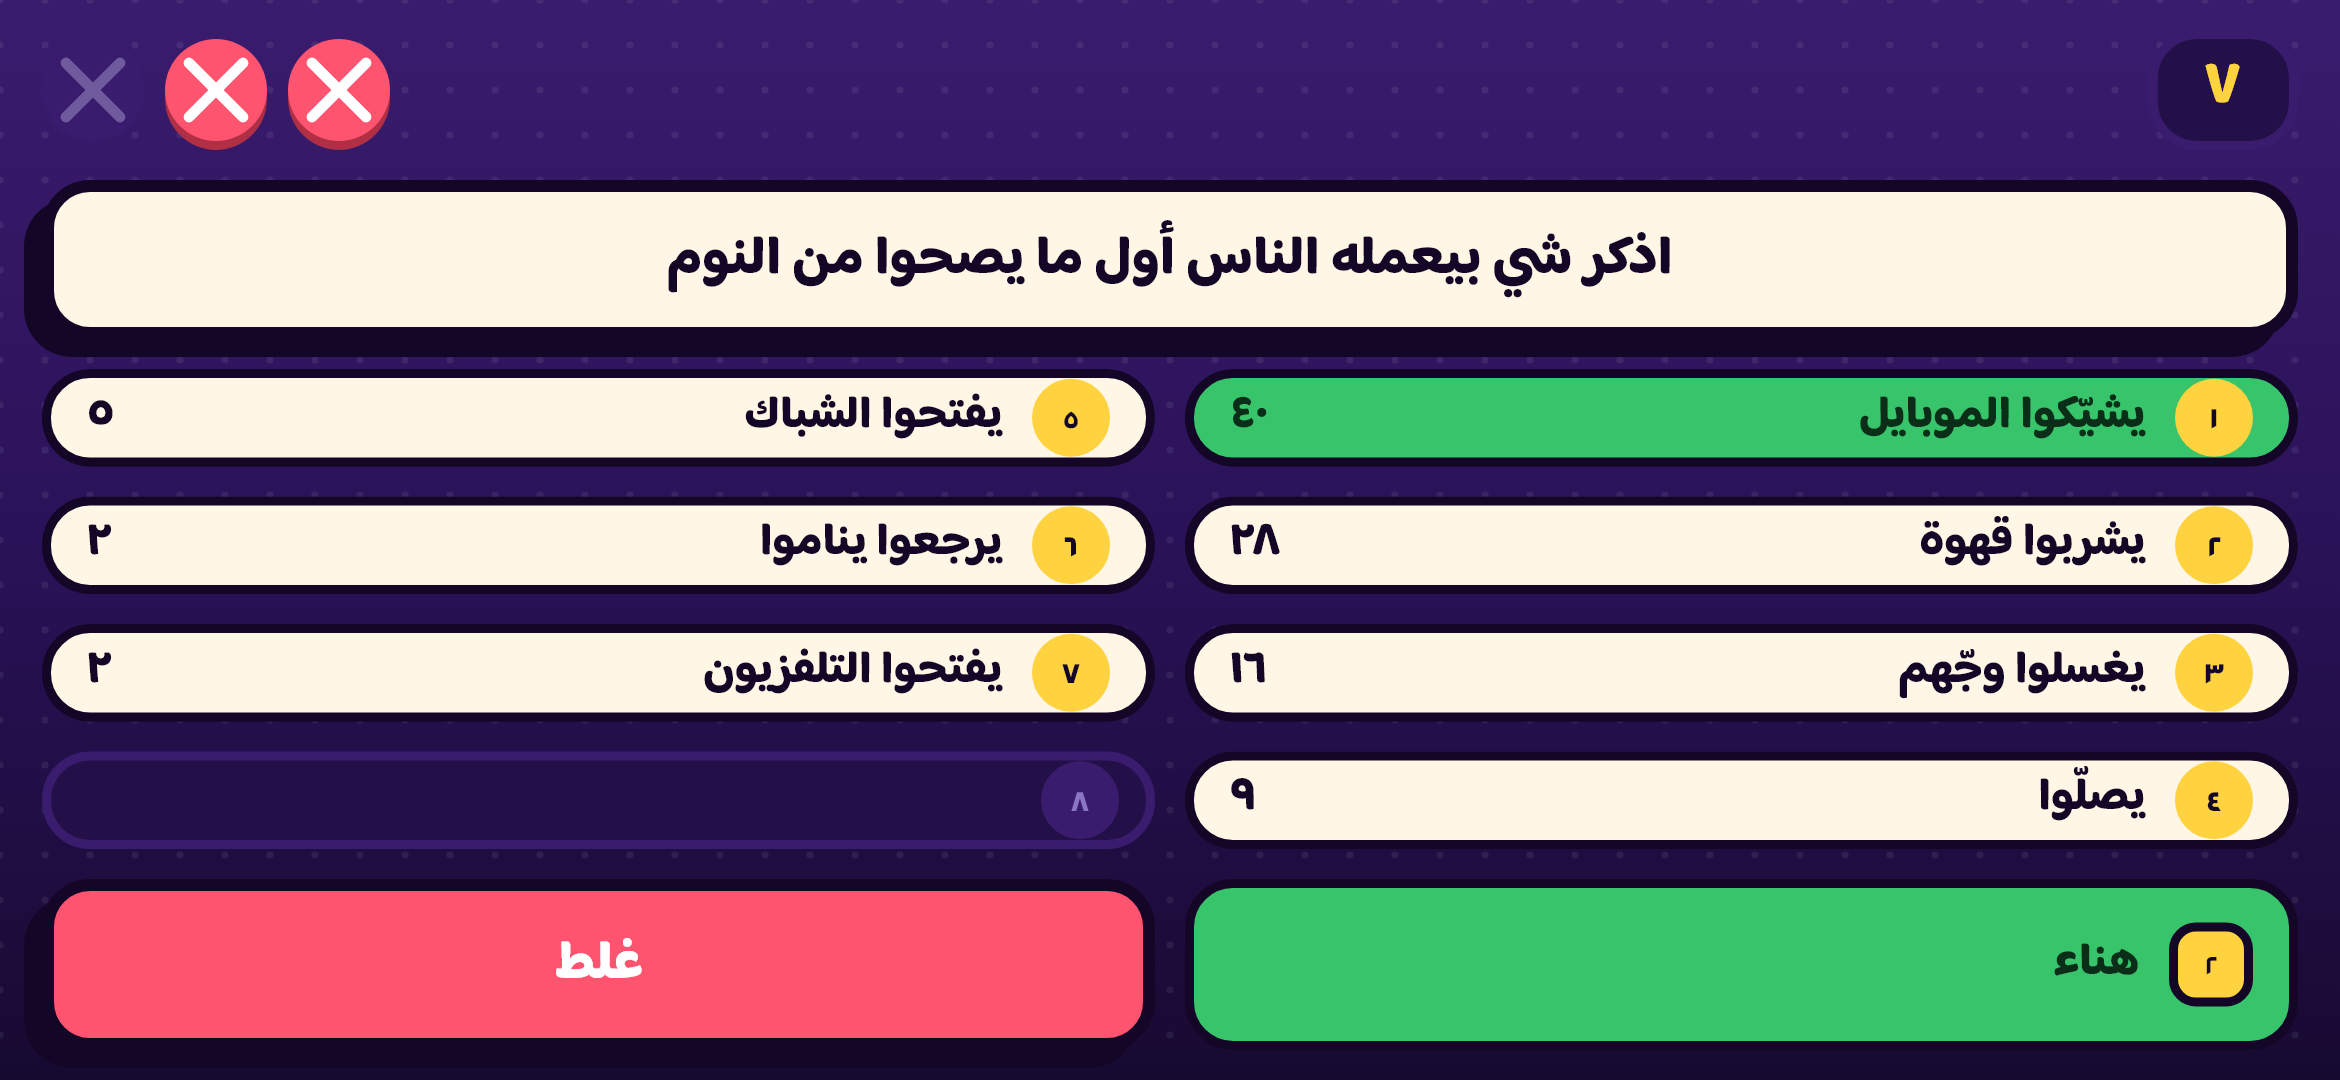
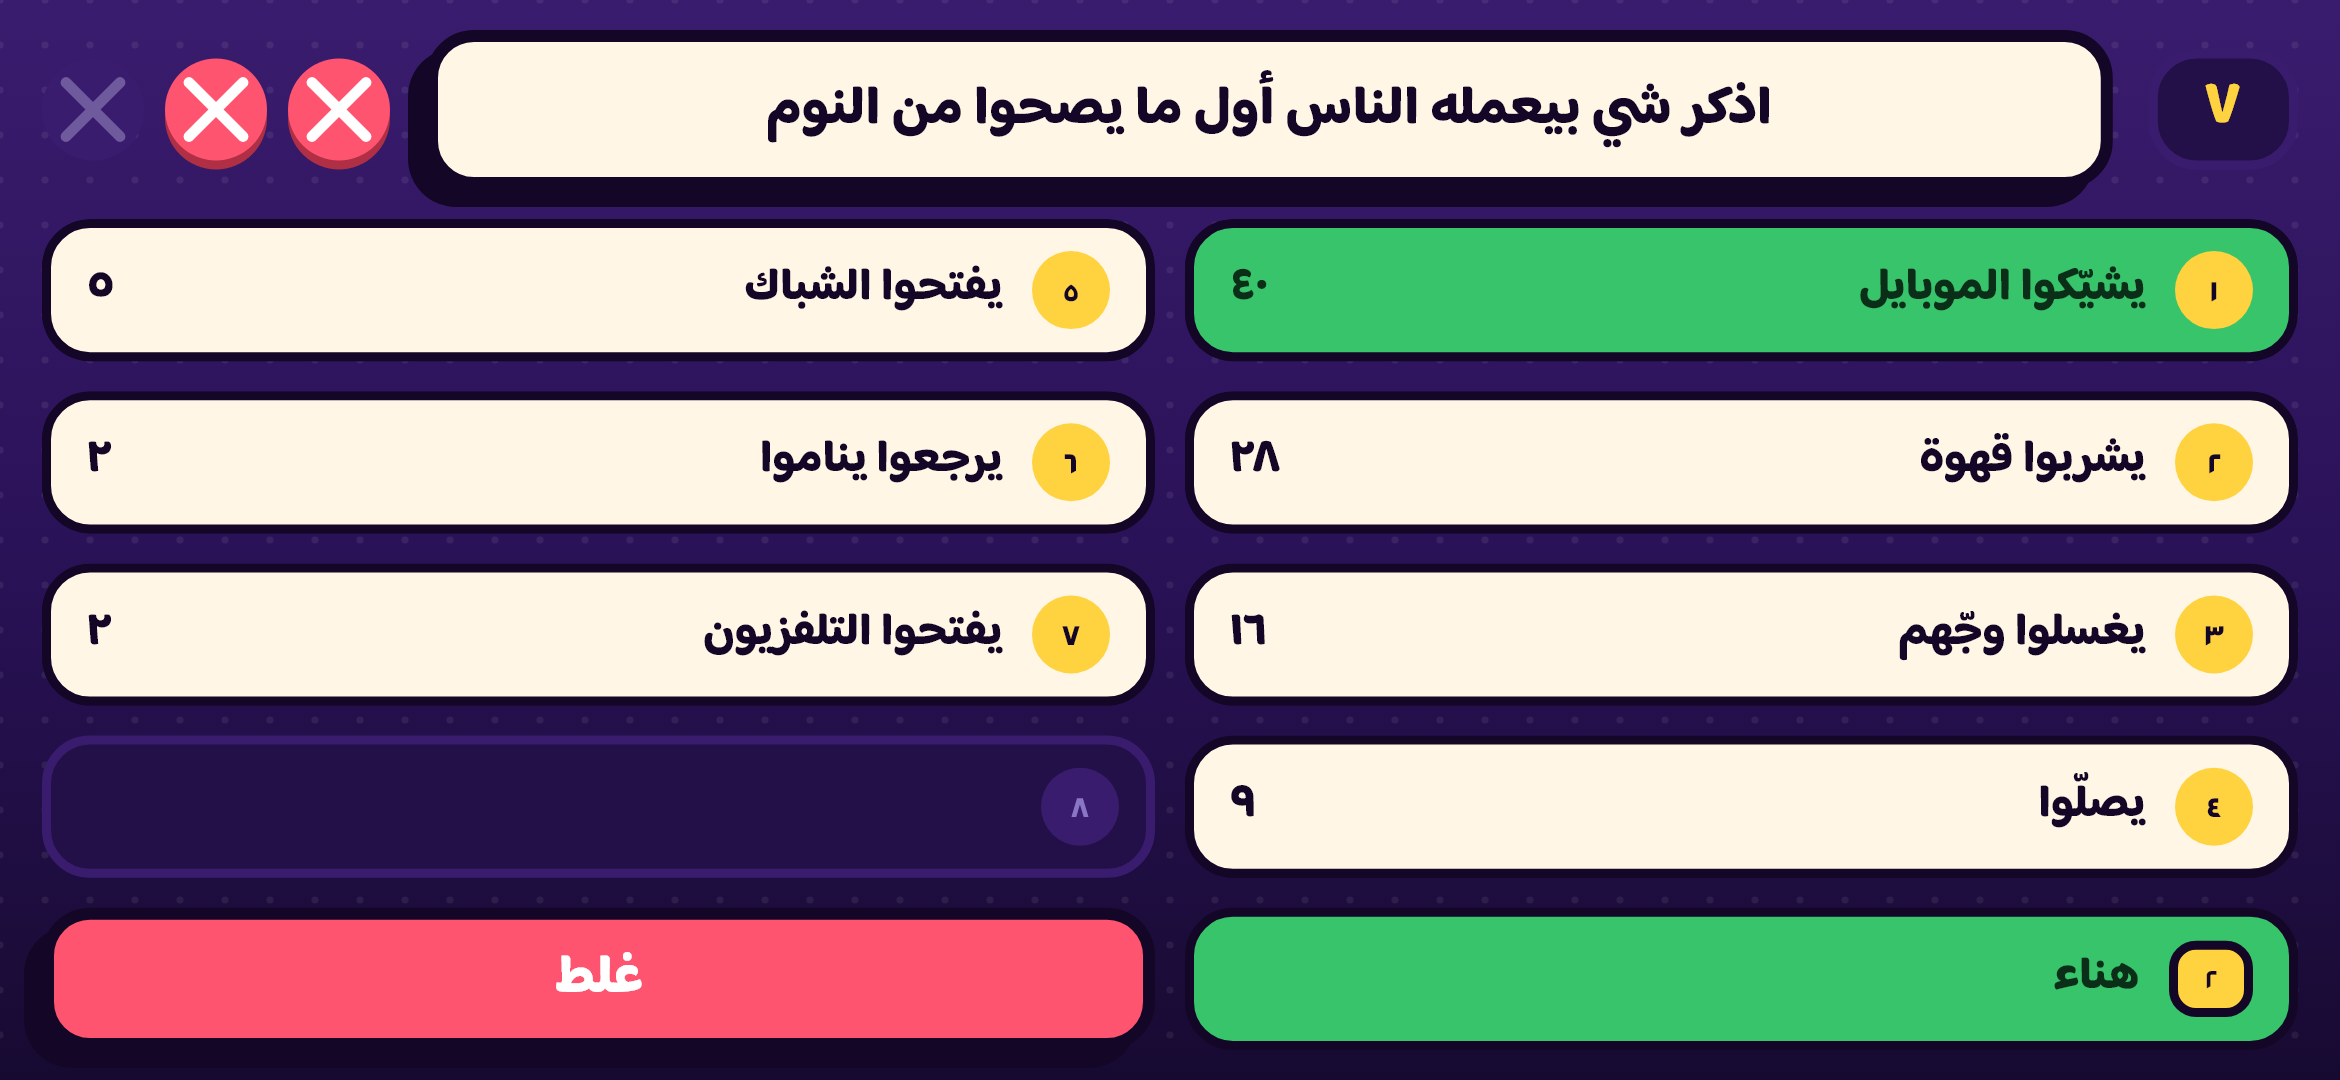
fix(ui): landscape question between timer and strikes; equal-height rows
In landscape the question card is back in the header row between the
timer and the strikes (the "question below" layout was only ever meant
for portrait). AnswerBoardColumns now sizes every row from the space
available — the eight answer slots and the footer row (wrong button +
turn block on the host, turn block on players) all get exactly the same
height; FlatButton fits its label to that height. Version 0.7.4+30.

diff --git a/lib/ui/host/host_board_screen.dart b/lib/ui/host/host_board_screen.dart
@@ -146,15 +146,23 @@ class HostGameBoardScreen extends StatelessWidget {
             child: Column(
               crossAxisAlignment: CrossAxisAlignment.stretch,
               children: [
-                PortraitBoardHeader(
-                  seconds: seconds,
-                  strikes: state.strikes,
-                  total: state.strikesToSteal,
-                ),
-                const SizedBox(height: 10),
-                // السؤال بسطر لحاله تحتهن بالوضعين؛ بالعرضي الأجوبة
-                // بتتوزّع على عمودين لأن العرض بيسمح.
-                questionCard,
+                // بالعرضي السؤال بين الوقت والأخطاء بنفس السطر (بيوفّر سطر
+                // كامل للأجوبة)؛ بالطولي بسطر لحاله تحتهن.
+                if (portrait) ...[
+                  PortraitBoardHeader(
+                    seconds: seconds,
+                    strikes: state.strikes,
+                    total: state.strikesToSteal,
+                  ),
+                  const SizedBox(height: 10),
+                  questionCard,
+                ] else
+                  PortraitBoardHeader(
+                    seconds: seconds,
+                    strikes: state.strikes,
+                    total: state.strikesToSteal,
+                    middle: questionCard,
+                  ),
                 const SizedBox(height: 10),
                 Expanded(
                   child: AnswerBoardColumns(
@@ -162,20 +170,18 @@ class HostGameBoardScreen extends StatelessWidget {
                     columns: portrait ? 1 : 2,
                     enabled: canJudge,
                     onCorrect: onCorrect,
-                  ),
-                ),
-                const SizedBox(height: 10),
-                // زر الحكم عاليسار وبلوك الدور عاليمين، نصّ ونصّ (طلب
-                // المستخدم). الصف مثبّت LTR حتى «يسار/يمين» ما تنقلب بالـ RTL.
-                IntrinsicHeight(
-                  child: Row(
-                    textDirection: TextDirection.ltr,
-                    crossAxisAlignment: CrossAxisAlignment.stretch,
-                    children: [
-                      Expanded(child: judgeBar),
-                      const SizedBox(width: 10),
-                      Expanded(child: HostTurnChip(state: state)),
-                    ],
+                    // زر الحكم عاليسار وبلوك الدور عاليمين، نصّ ونصّ، بسطر
+                    // بنفس ارتفاع خانات الأجوبة بالضبط. الصف مثبّت LTR حتى
+                    // «يسار/يمين» ما تنقلب بالـ RTL.
+                    footer: Row(
+                      textDirection: TextDirection.ltr,
+                      crossAxisAlignment: CrossAxisAlignment.stretch,
+                      children: [
+                        Expanded(child: judgeBar),
+                        const SizedBox(width: 10),
+                        Expanded(child: HostTurnChip(state: state)),
+                      ],
+                    ),
                   ),
                 ),
               ],
@@ -200,6 +206,10 @@ class AnswerBoardColumns extends StatefulWidget {
   final bool revealHiddenText;
   final void Function(int index)? onCorrect;
 
+  /// سطر إضافي بعرض اللوح كله تحت الخانات (زر الحكم + بلوك الدور عند
+  /// المضيف) — بياخد نفس ارتفاع خانة الجواب بالضبط.
+  final Widget? footer;
+
   const AnswerBoardColumns({
     super.key,
     required this.answers,
@@ -207,6 +217,7 @@ class AnswerBoardColumns extends StatefulWidget {
     required this.enabled,
     this.revealHiddenText = true,
     this.onCorrect,
+    this.footer,
   });
 
   @override
@@ -240,37 +251,53 @@ class _AnswerBoardColumnsState extends State<AnswerBoardColumns> {
     final perColumn = (slots + widget.columns - 1) ~/ widget.columns;
     final delays = _revealDelays();
 
-    return Row(
-      crossAxisAlignment: CrossAxisAlignment.stretch,
-      children: [
-        for (var column = 0; column < widget.columns; column++) ...[
-          if (column > 0) const SizedBox(width: 10),
-          Expanded(
-            child: Column(
-              crossAxisAlignment: CrossAxisAlignment.stretch,
-              children: [
-                for (var row = 0; row < perColumn; row++) ...[
-                  if (row > 0) const SizedBox(height: 10),
-                  Expanded(
-                    child: () {
-                      final index = column * perColumn + row;
-                      if (index >= slots) return const SizedBox.shrink();
-                      return AnswerSlotRow(
-                        position: index + 1,
-                        answer: index < answers.length ? answers[index] : null,
-                        enabled: widget.enabled,
-                        revealHiddenText: widget.revealHiddenText,
-                        revealDelay: delays[index] ?? 0,
-                        onClick: widget.onCorrect == null ? null : () => widget.onCorrect!(index),
-                      );
-                    }(),
-                  ),
-                ],
-              ],
-            ),
-          ),
-        ],
-      ],
+    final footer = widget.footer;
+    const gap = 10.0;
+
+    // كل الصفوف بنفس الارتفاع بالضبط — خانات الأجوبة والسطر الإضافي تحتها:
+    // منقسم الارتفاع المتاح على عدد الصفوف بعد ما نطرح الفراغات بيناتها.
+    return LayoutBuilder(
+      builder: (context, constraints) {
+        final rows = perColumn + (footer == null ? 0 : 1);
+        final rowHeight = ((constraints.maxHeight - gap * (rows - 1)) / rows).clamp(0.0, 1e6);
+
+        Widget slot(int index) {
+          if (index >= slots) return const SizedBox.shrink();
+          return AnswerSlotRow(
+            position: index + 1,
+            answer: index < answers.length ? answers[index] : null,
+            enabled: widget.enabled,
+            revealHiddenText: widget.revealHiddenText,
+            revealDelay: delays[index] ?? 0,
+            onClick: widget.onCorrect == null ? null : () => widget.onCorrect!(index),
+          );
+        }
+
+        return Column(
+          crossAxisAlignment: CrossAxisAlignment.stretch,
+          children: [
+            for (var row = 0; row < perColumn; row++) ...[
+              if (row > 0) const SizedBox(height: gap),
+              SizedBox(
+                height: rowHeight,
+                child: Row(
+                  crossAxisAlignment: CrossAxisAlignment.stretch,
+                  children: [
+                    for (var column = 0; column < widget.columns; column++) ...[
+                      if (column > 0) const SizedBox(width: gap),
+                      Expanded(child: slot(column * perColumn + row)),
+                    ],
+                  ],
+                ),
+              ),
+            ],
+            if (footer != null) ...[
+              const SizedBox(height: gap),
+              SizedBox(height: rowHeight, child: footer),
+            ],
+          ],
+        );
+      },
     );
   }
 }
@@ -282,11 +309,15 @@ class PortraitBoardHeader extends StatelessWidget {
   final int strikes;
   final int total;
 
+  /// بالعرضي: السؤال بين الوقت والأخطاء.
+  final Widget? middle;
+
   const PortraitBoardHeader({
     super.key,
     required this.seconds,
     required this.strikes,
     required this.total,
+    this.middle,
   });
 
   @override
@@ -311,7 +342,8 @@ class PortraitBoardHeader extends StatelessWidget {
           ),
         ),
         const SizedBox(width: 12),
-        const Spacer(),
+        // بالعرضي السؤال بين الوقت والأخطاء؛ بالطولي النص فاضي (للنوتش).
+        if (middle != null) Expanded(child: middle!) else const Spacer(),
         const SizedBox(width: 12),
         Row(
           mainAxisSize: MainAxisSize.min,
@@ -393,14 +425,19 @@ class FlatButton extends StatelessWidget {
       onTap: enabled ? onClick : null,
       child: BlockSkin(
         color: enabled ? color : color.withValues(alpha: 0.45),
+        // الزر بياخد ارتفاع الصف اللي انحط فيه (نفس خانة الجواب) — النص
+        // بالنص وبيصغر لو الصف أقصر منه بدل ما ينقص.
         child: Padding(
-          padding: const EdgeInsets.symmetric(vertical: 14),
+          padding: const EdgeInsets.symmetric(horizontal: 12, vertical: 4),
           child: Center(
-            child: Text(
-              text,
-              maxLines: 1,
-              style: FeudText.titleLarge(context).copyWith(
-                color: enabled ? textColor : textColor.withValues(alpha: 0.6),
+            child: FittedBox(
+              fit: BoxFit.scaleDown,
+              child: Text(
+                text,
+                maxLines: 1,
+                style: FeudText.titleLarge(context).copyWith(
+                  color: enabled ? textColor : textColor.withValues(alpha: 0.6),
+                ),
               ),
             ),
           ),

diff --git a/lib/ui/player/player_board.dart b/lib/ui/player/player_board.dart
@@ -66,16 +66,16 @@ class PlayerBoard extends StatelessWidget {
                 columns: isPortrait(context) ? 1 : 2,
                 enabled: false,
                 revealHiddenText: false,
+                // بلوك الدور بنفس ارتفاع خانات الأجوبة بالضبط. نقاط الفرق
+                // مش هون — بتبيّن بشاشة النتيجة بين الجولات.
+                footer: TurnBlock(
+                  state: state,
+                  playerId: playerId,
+                  teamId: teamId,
+                  mark: mark,
+                  status: status,
+                ),
               ),
-            ),
-            const SizedBox(height: 10),
-            // نقاط الفرق مش هون — بتبيّن بشاشة النتيجة بين الجولات.
-            TurnBlock(
-              state: state,
-              playerId: playerId,
-              teamId: teamId,
-              mark: mark,
-              status: status,
             ),
           ],
         ),

diff --git a/README.md b/README.md
@@ -166,7 +166,7 @@ git tag -a v0.8.0 -m "..."
 git push origin v0.8.0
 ```
 
-رقم النسخة بـ `pubspec.yaml` (`version: 0.7.3+29`).
+رقم النسخة بـ `pubspec.yaml` (`version: 0.7.4+30`).
 
 **التوقيع:** التحديث ما بيتركّب فوق نسخة قديمة إلا إذا كان الاتنين موقّعين
 بنفس المفتاح. المفتاح بيجي من `android/key.properties` (مش بالمستودع):
